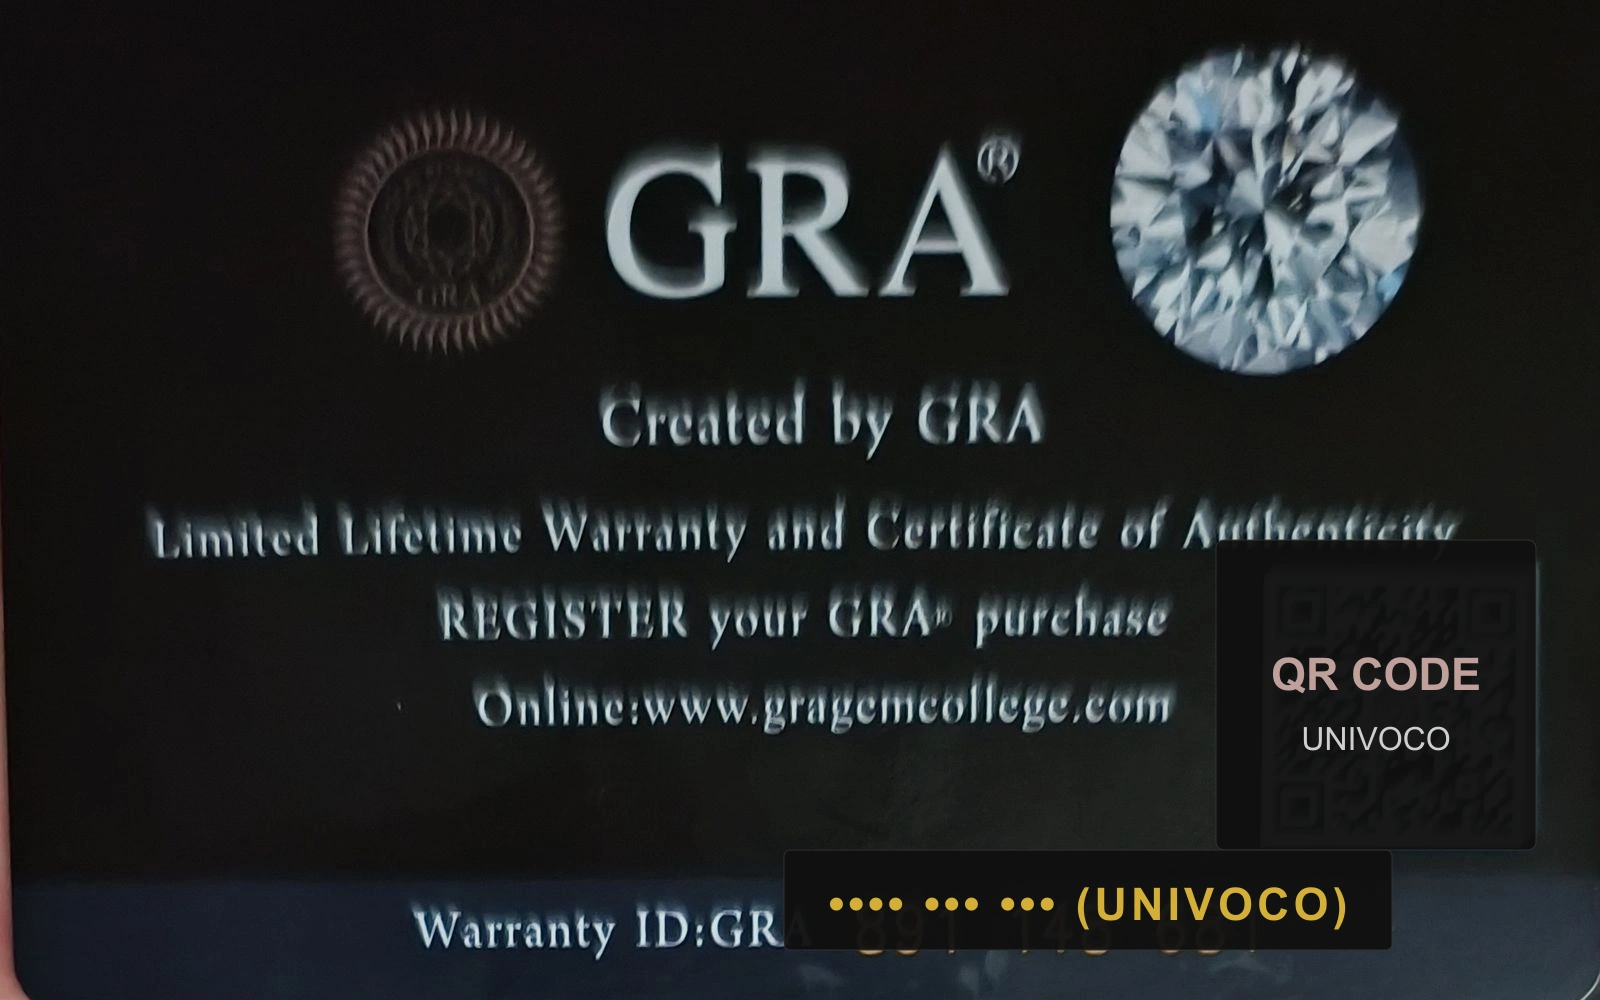
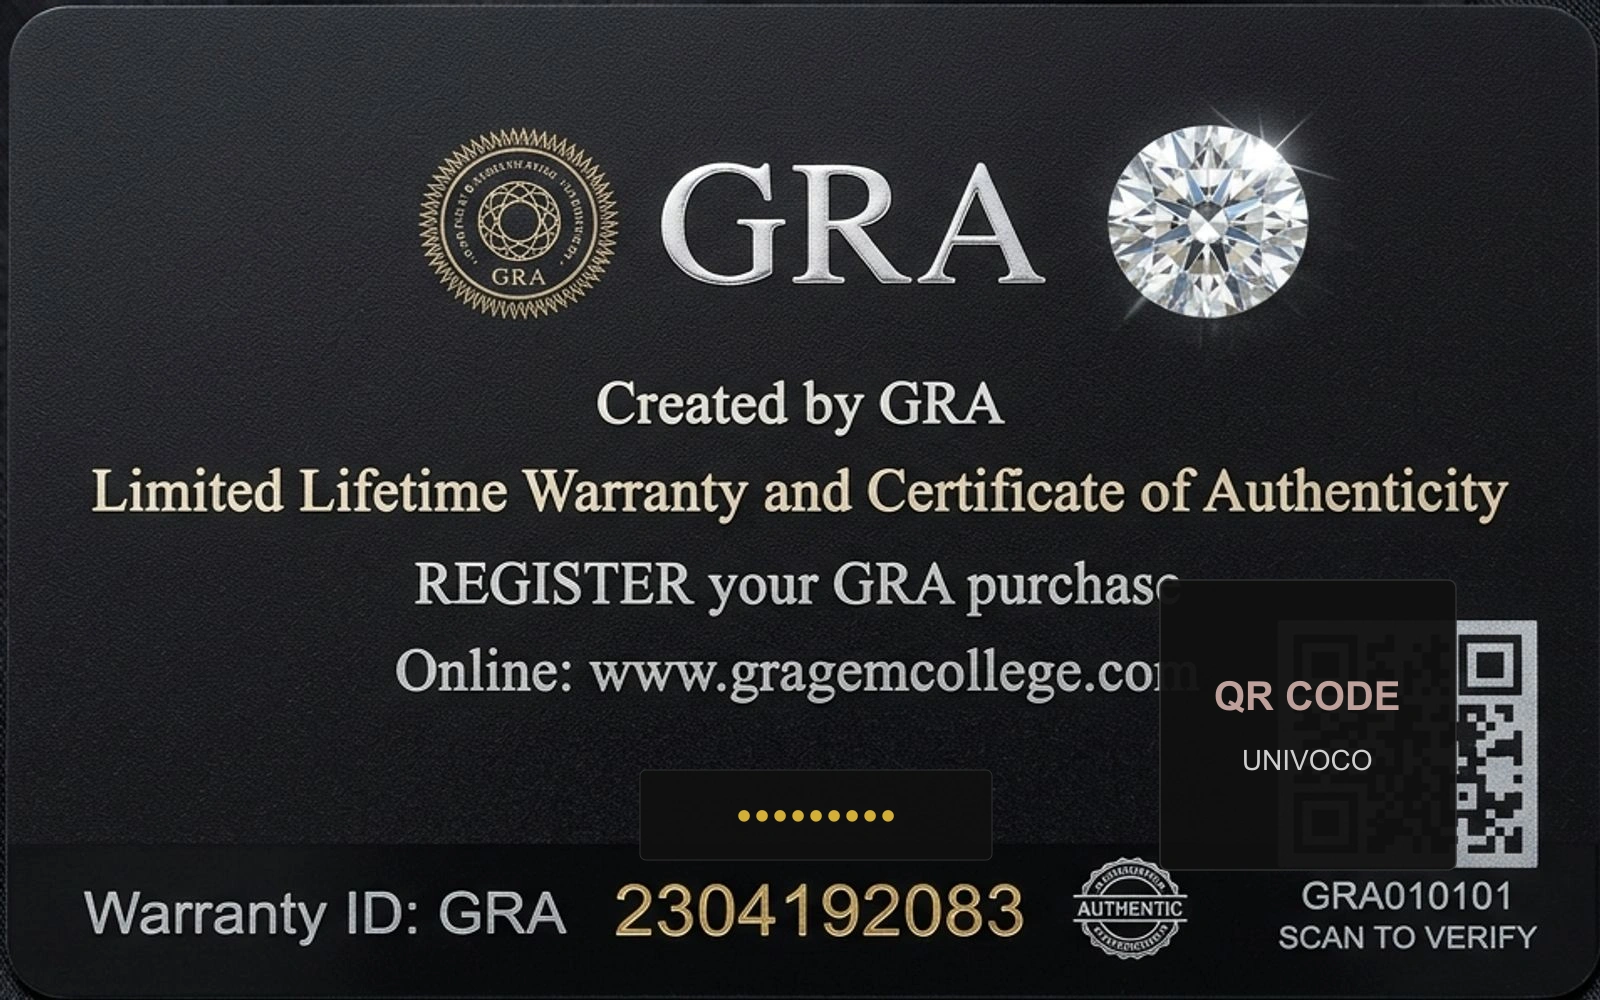
fix(brand): rigenerate ultra-sharp GRA Warranty Card without blur and with aligned borders and privacy masking

diff --git a/scripts/export_ultra_sharp_gra_card.ts b/scripts/export_ultra_sharp_gra_card.ts
@@ -1,0 +1,52 @@
+import sharp from 'sharp';
+import fs from 'fs';
+import path from 'path';
+
+async function exportUltraCleanGraCard() {
+  console.log('Exporting ultra-clean, razor-sharp GRA Card asset...');
+
+  const cardSrc = path.resolve(process.cwd(), 'C:/Users/mario/.gemini/antigravity/brain/c179de7c-1904-44ee-afff-b91f47bf4b2e/gra_card_hd_master_1787056981384.jpg');
+  const cardMeta = await sharp(cardSrc).metadata();
+  const cw = cardMeta.width || 2000;
+  const ch = cardMeta.height || 1333;
+
+  // Extract clean card rectangle from background
+  const cardLeft = Math.round(cw * 0.125);
+  const cardTop = Math.round(ch * 0.138);
+  const cardWidth = Math.round(cw * 0.755);
+  const cardHeight = Math.round(ch * 0.738);
+
+  const croppedBuffer = await sharp(cardSrc)
+    .extract({ left: cardLeft, top: cardTop, width: cardWidth, height: cardHeight })
+    .resize(1600, 1000, { fit: 'fill' })
+    .toBuffer();
+
+  const w = 1600;
+  const h = 1000;
+  const cardOverlaySvg = `
+  <svg width="${w}" height="${h}" xmlns="http://www.w3.org/2000/svg">
+    <!-- Frosted Privacy Mask over QR Code -->
+    <rect x="${w * 0.725}" y="${h * 0.58}" width="${w * 0.185}" height="${h * 0.29}" fill="#111111" opacity="0.95" rx="8" stroke="#333333" stroke-width="1.5" />
+    <text x="${w * 0.817}" y="${h * 0.71}" font-family="Arial, sans-serif" font-size="${h * 0.040}" fill="#C0A09A" font-weight="bold" text-anchor="middle">QR CODE</text>
+    <text x="${w * 0.817}" y="${h * 0.77}" font-family="Arial, sans-serif" font-size="${h * 0.028}" fill="#FFFFFF" opacity="0.8" text-anchor="middle">UNIVOCO</text>
+
+    <!-- Frosted Privacy Mask over Serial Number -->
+    <rect x="${w * 0.40}" y="${h * 0.77}" width="${w * 0.22}" height="${h * 0.09}" fill="#111111" opacity="0.95" rx="6" stroke="#333333" stroke-width="1" />
+    <text x="${w * 0.51}" y="${h * 0.83}" font-family="Arial, sans-serif" font-size="${h * 0.040}" letter-spacing="4" fill="#D4AF37" font-weight="bold" text-anchor="middle">•••••••••</text>
+  </svg>
+  `;
+
+  await sharp(croppedBuffer)
+    .composite([{ input: Buffer.from(cardOverlaySvg), top: 0, left: 0 }])
+    .webp({ quality: 95 })
+    .toFile(path.resolve(process.cwd(), 'public/Brand/gra_card_privacy.webp'));
+
+  await sharp(croppedBuffer)
+    .composite([{ input: Buffer.from(cardOverlaySvg), top: 0, left: 0 }])
+    .jpeg({ quality: 95 })
+    .toFile(path.resolve(process.cwd(), 'public/Brand/gra_card_privacy.jpg'));
+
+  console.log('✅ Razor-sharp GRA Card asset exported successfully!');
+}
+
+exportUltraCleanGraCard().catch(console.error);
